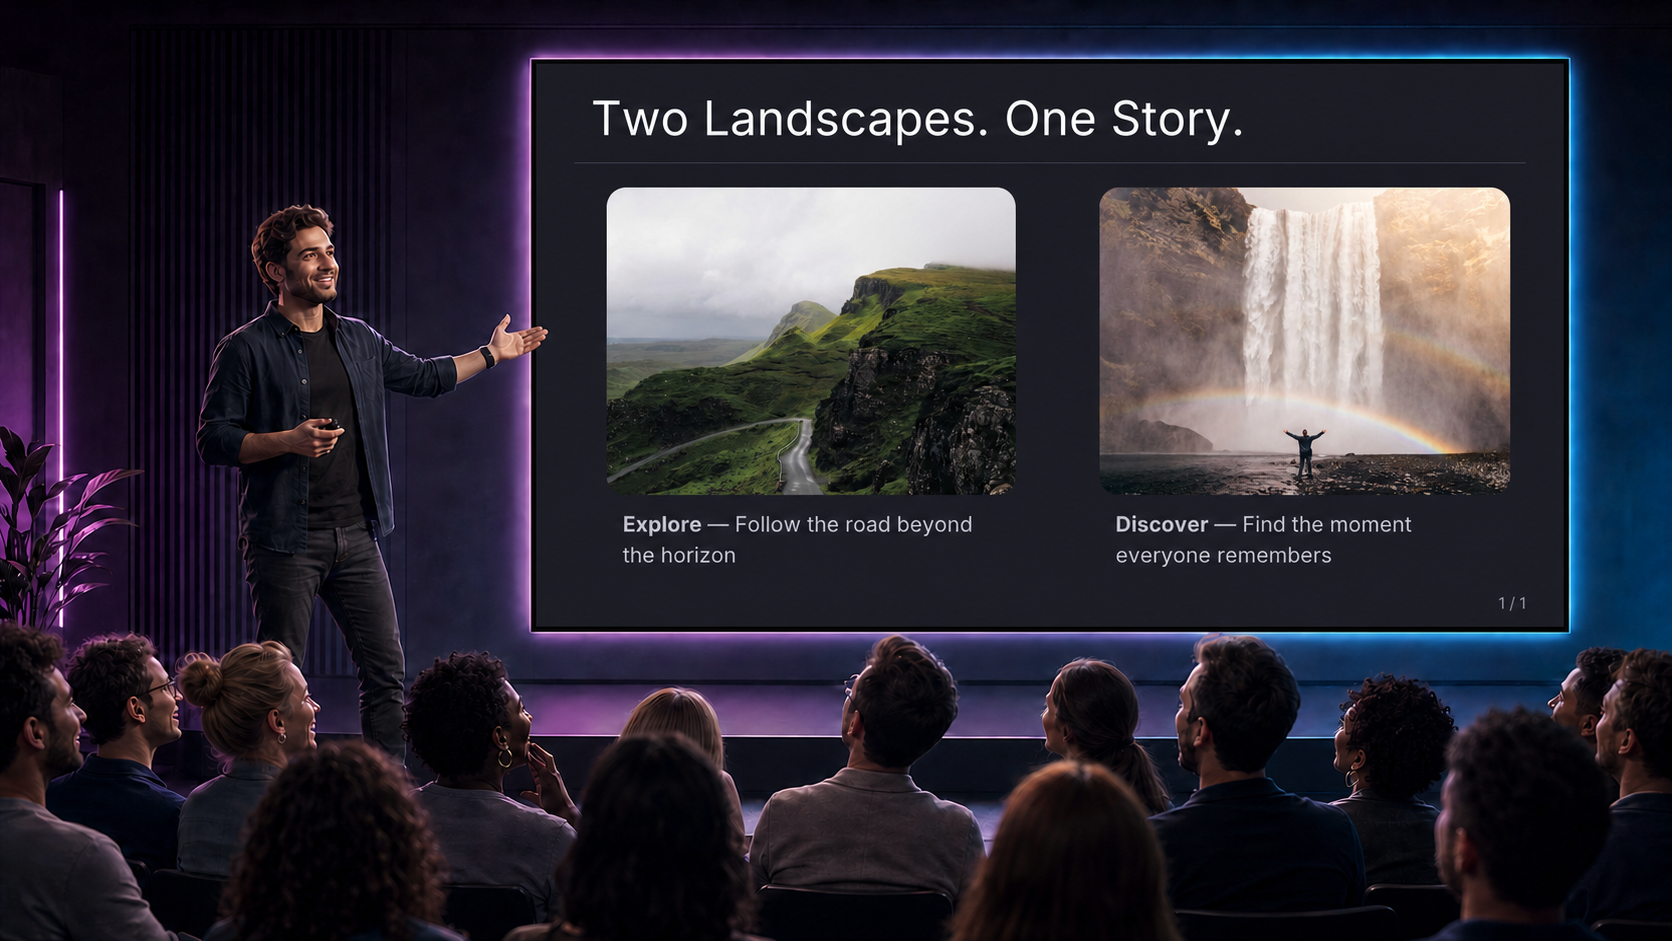
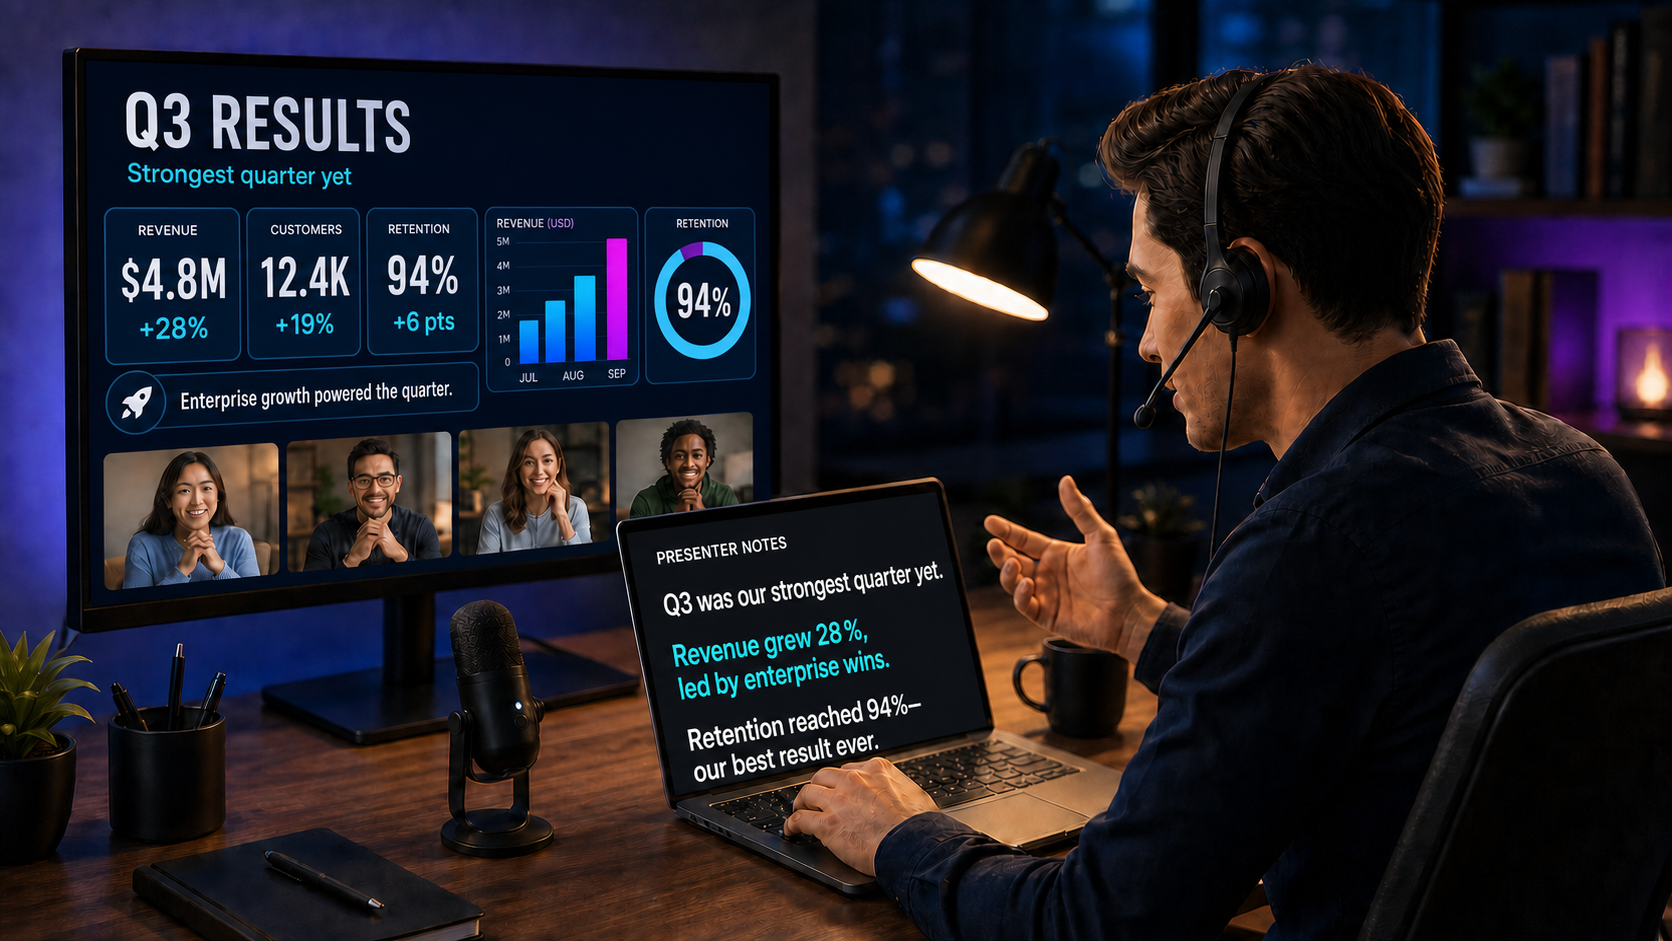
Update README and infographic

diff --git a/README.md b/README.md
@@ -2,7 +2,7 @@
 
 A lightweight presentation renderer built for AI-generated decks and live screen sharing. Ask an AI agent to turn your source material into an XML presentation—including presenter notes for every slide that explain exactly what to say—then launch Presenter and get two separate windows: a clean **Presentation** canvas for the audience and a private **Presenter View** with your script.
 
-![A presenter delivering a syntax-highlighted technical talk to an impressed audience using Presenter](docs/images/presenter-live-infographic.png)
+![A presenter in an online meeting reading private notes on a laptop while sharing only the audience presentation window on a separate monitor](docs/images/presenter-live-infographic.png)
 
 Presenter works especially well with Microsoft Teams, Zoom, Google Meet, and other screen-sharing software. Choose **share this window** and select only the **Presentation** canvas. Your audience sees the slides while you read what to say for each slide from the AI-generated notes in **Presenter View**, navigate the deck, and deliver a polished presentation with little to no preparation.
 